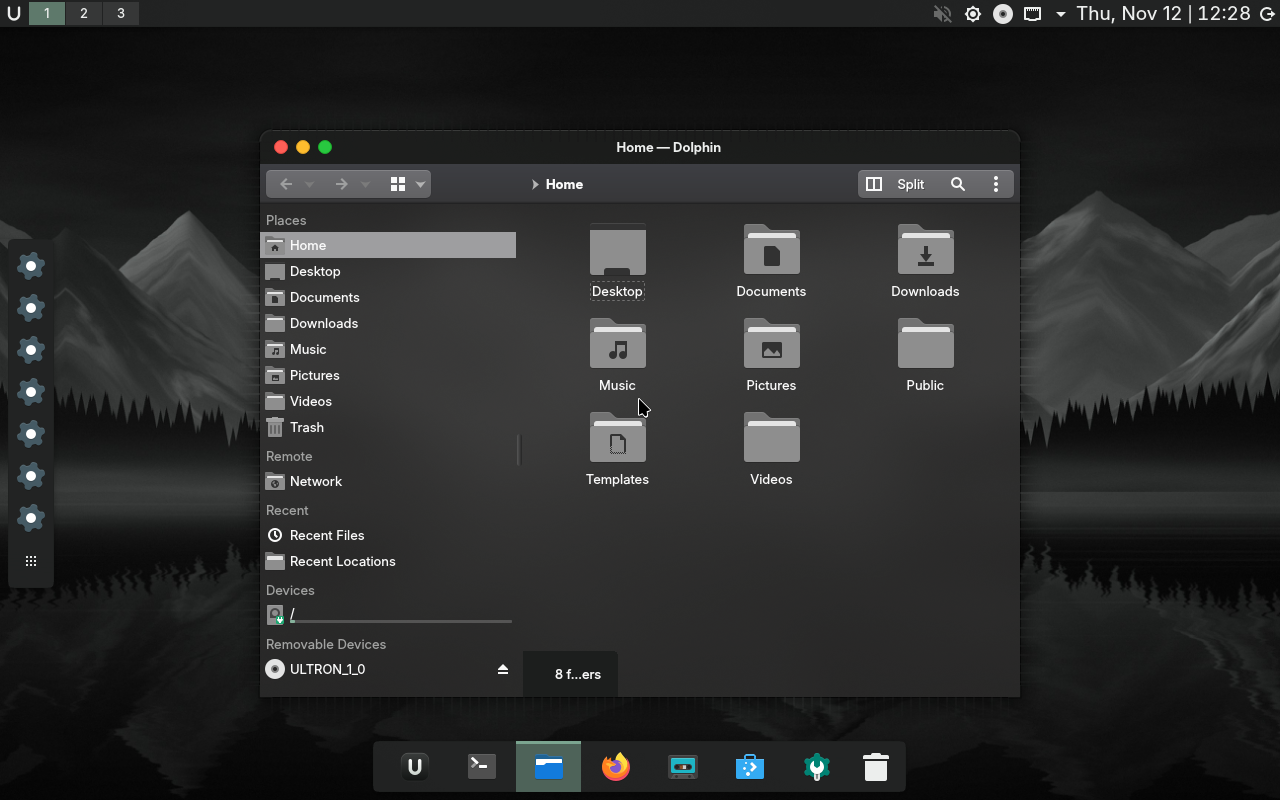
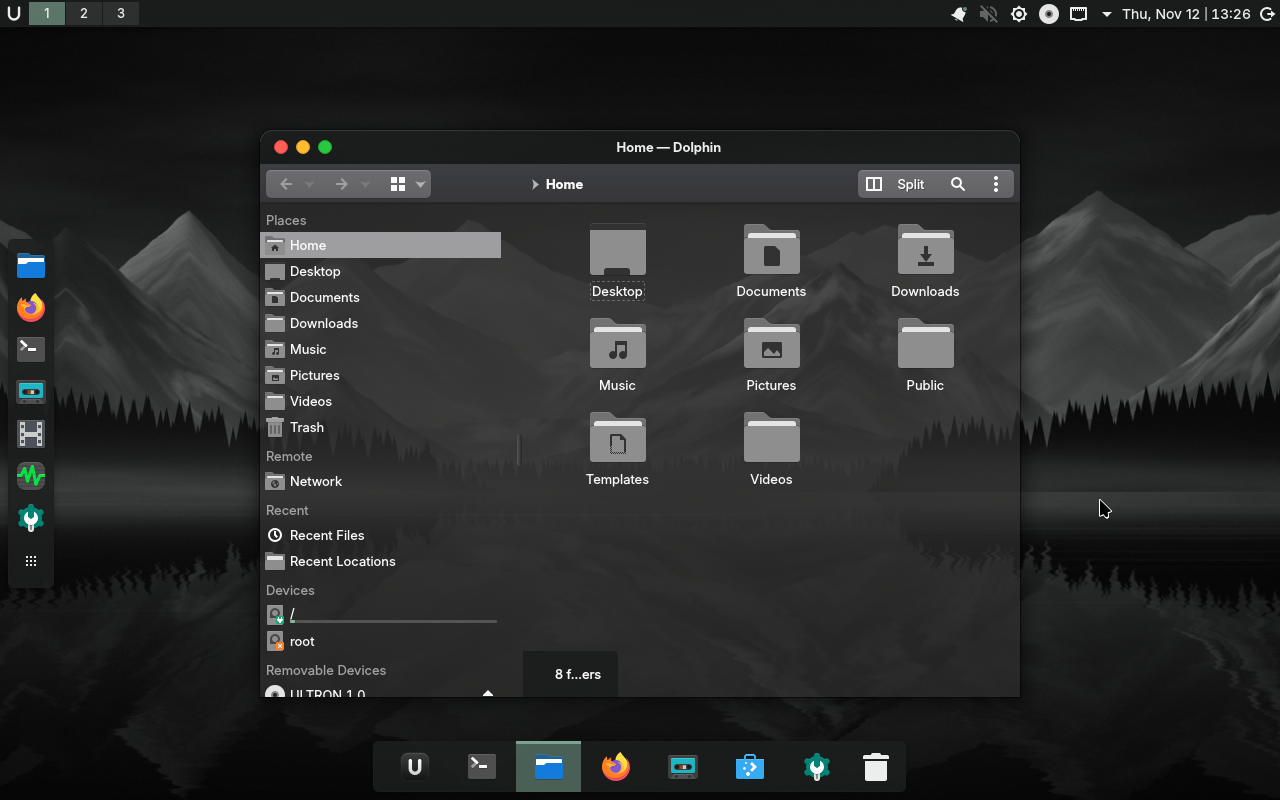
Docs: glass screenshots from the final image; wider GRUB menu
Claude-Session: https://claude.ai/code/session_01GMjJqUe482obFi4jQpoHiJ

diff --git a/README.md b/README.md
@@ -41,10 +41,12 @@ automatically" there, step 2 is skipped.
 
 There is no pre-built download yet. Two ways to produce one:
 
-**Let GitHub build it.** Open the *Actions* tab of this repository, pick
-**Build ISO**, press **Run workflow**. After roughly 40 minutes the ISO is
-attached to the run as an artifact. Pushing a tag such as `v1.0` additionally
-publishes it as a GitHub Release.
+**Let GitHub build it.** The *Build ISO* workflow runs on every push that
+changes the OS definition, and on demand from the *Actions* tab (**Build ISO**
+→ **Run workflow**). After roughly 45 minutes the ISO is attached to the run as
+an artifact (scroll to the bottom of the run page). Pushing a tag such as
+`v1.0` also creates a GitHub Release; the ISO itself is attached to it only if
+it is under GitHub's 2 GiB per-file limit, which it currently is not.
 
 **Build it yourself** on any Linux machine with Docker and about 20 GB free:
 
@@ -56,6 +58,10 @@ ULTRON_COMPRESSION=zstd ./build.sh  # much faster build, slightly larger ISO
 ```
 
 ## Install it
+
+| Boot menu | Installer | File manager |
+|---|---|---|
+| ![Boot menu](docs/boot-menu.png) | ![Installer](docs/installer.png) | ![File manager](docs/files.png) |
 
 1. Write the ISO to a USB stick (4 GB or larger) with
    [balenaEtcher](https://etcher.balena.io/), [Rufus](https://rufus.ie/) (choose
